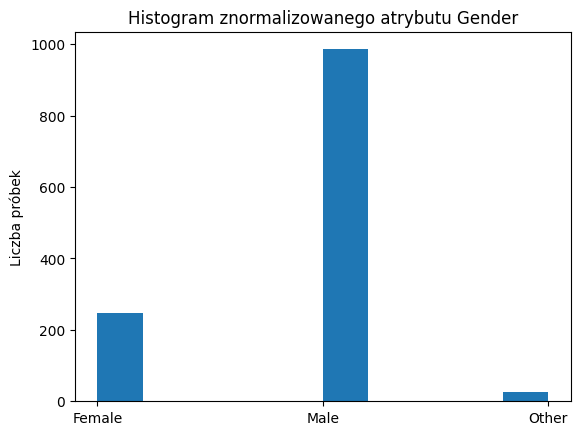
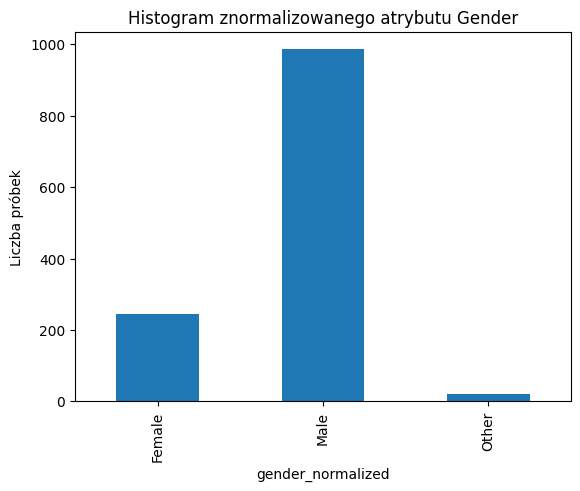
Gender

diff --git a/charts.py b/charts.py
@@ -47,17 +47,21 @@ def gender_hist(df):
     "woman"
     ]
 
+    rejected_terms = ["Nah", "All", "ostensibly male, unsure what that really means", "p", "Neuter", "A little about you"]
+
     def normalize_gender(row):
         if row["Gender"] in male_terms:
             return "Male"
         elif row["Gender"] in female_terms:
             return "Female"
+        elif row["Gender"] in rejected_terms:
+            return None
         else:
             return "Other"
 
     df["gender_normalized"] = df.apply(normalize_gender, axis=1)
 
-    plt.hist(df.gender_normalized)
+    pd.Series(df.gender_normalized).value_counts(sort=False).plot(kind='bar')
 
     plt.ylabel("Liczba próbek")
     plt.title("Histogram znormalizowanego atrybutu Gender")
